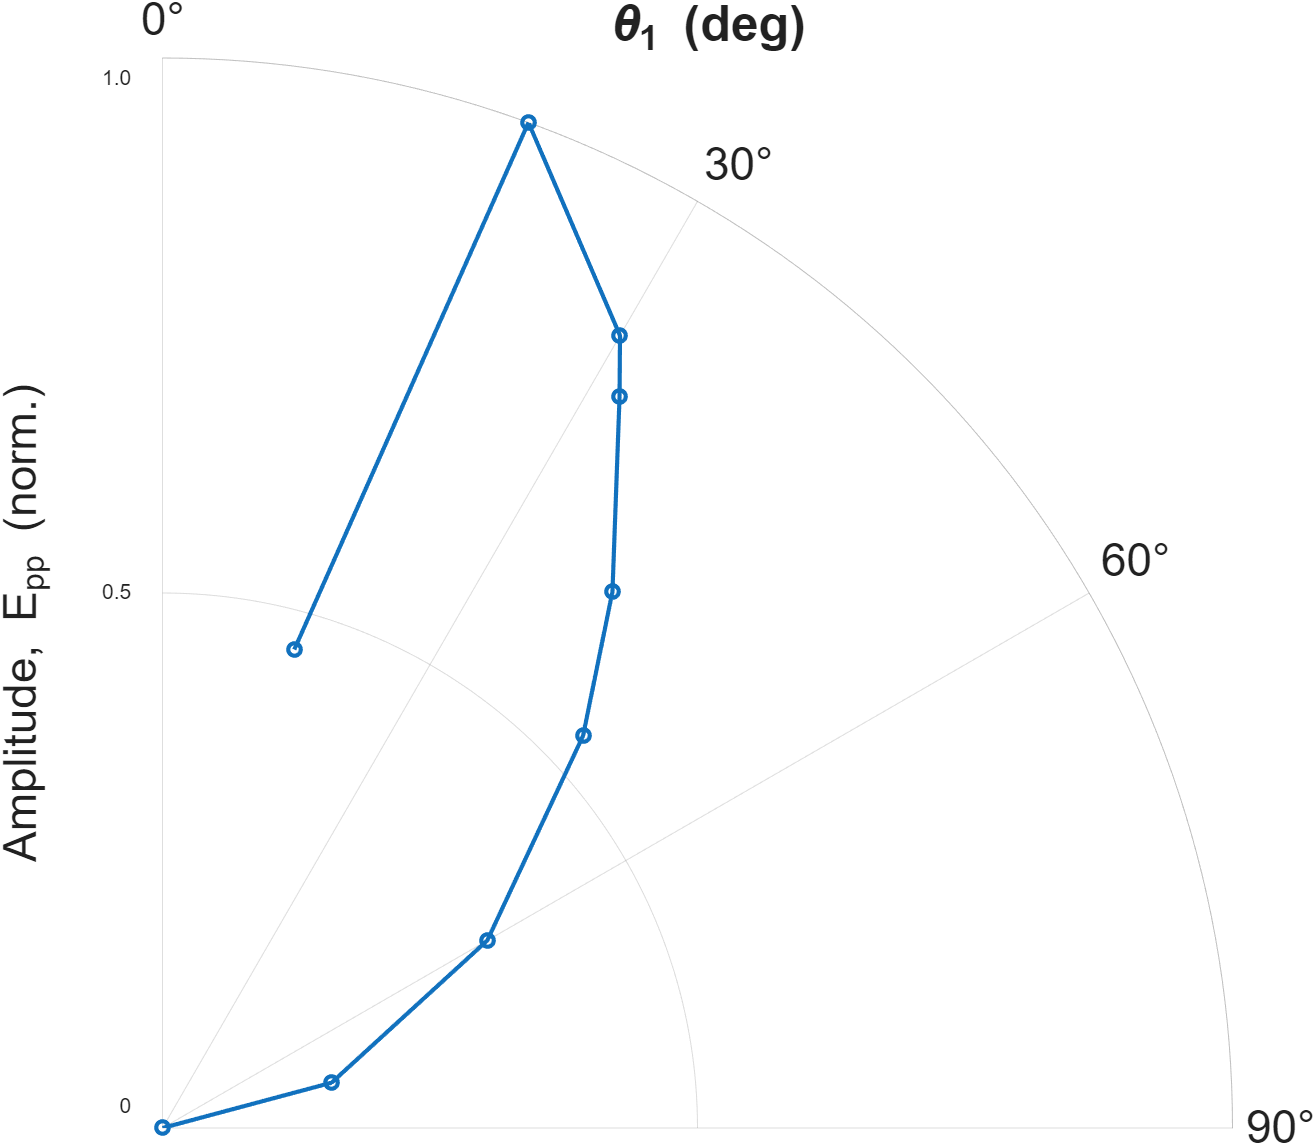
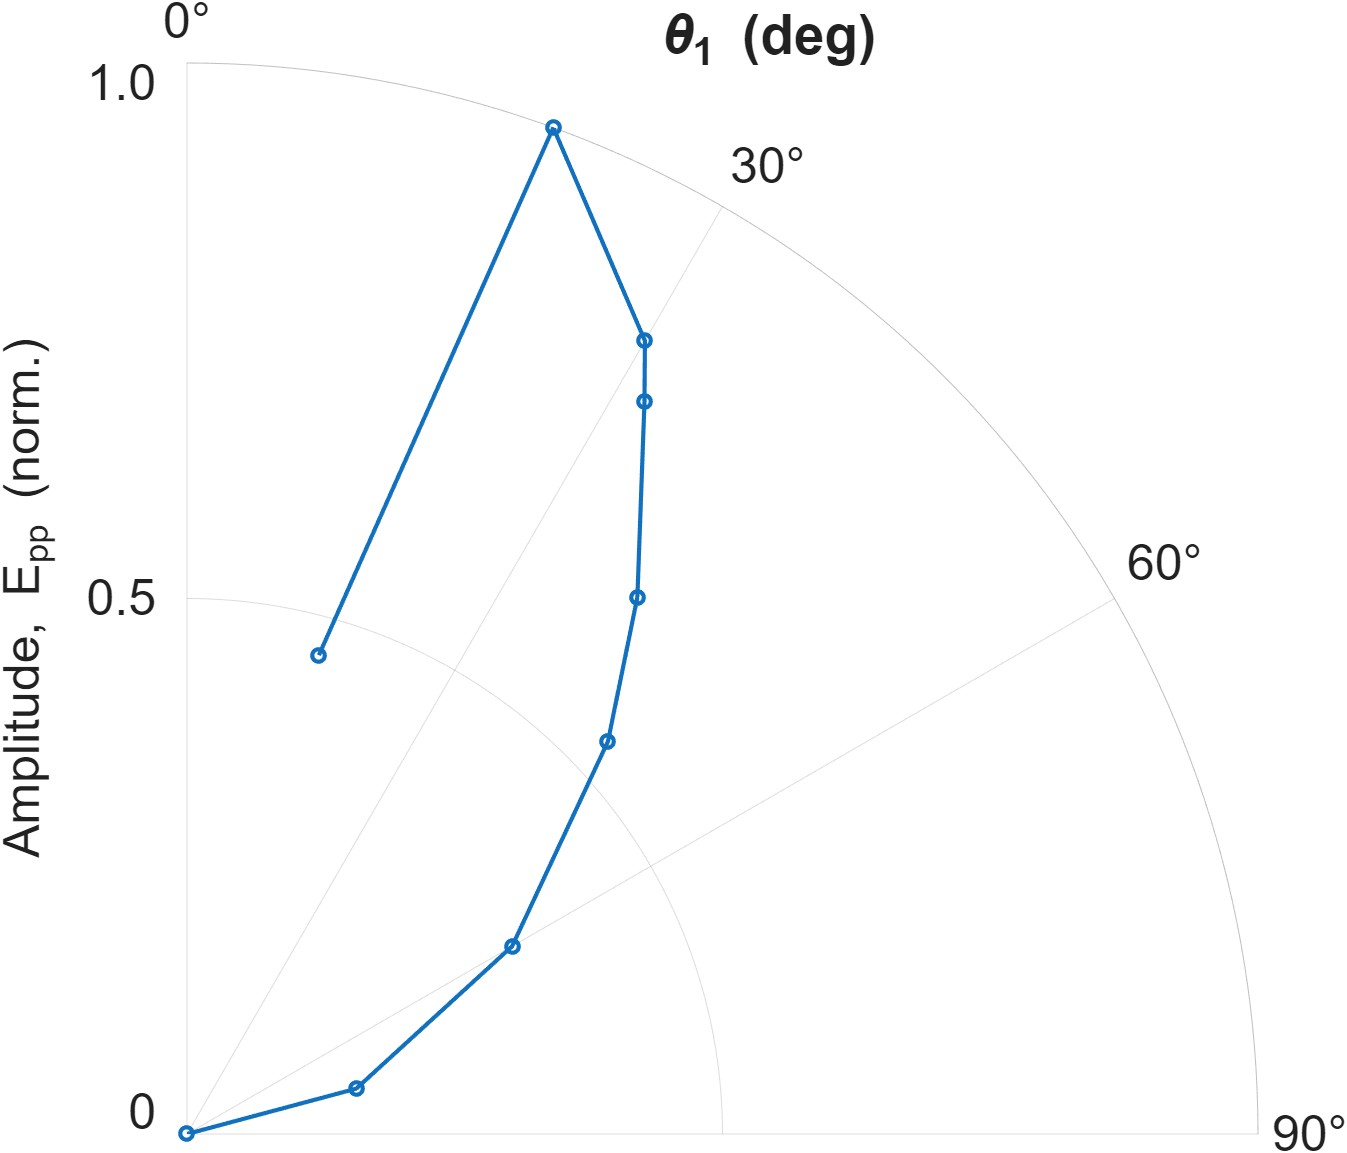
Updates from Overleaf

diff --git a/interim_report_latex_template (1)/electric_field_draft.tex b/interim_report_latex_template (1)/electric_field_draft.tex
@@ -103,15 +103,15 @@ To verify the correctness of the numerical framework, the simulation was benchma
 To reproduce this result, the simulation was configured with material parameters matching the Fe:InGaAs sample and the excitation geometry described in~\cite{Mueckstein2015}. The carrier transport was solved using the diffusion-recombination model (Equation~\ref{eq:diffusion}), and the far-field electric field was computed at observation angles $\theta_1 = 15.4^{\circ}$, $20^{\circ}$, $30^{\circ}$, $32^{\circ}$, $40^{\circ}$, $47^{\circ}$, $60^{\circ}$, $75^{\circ}$, and $90^{\circ}$ using the retarded potential framework (Equation~\ref{eq:discrete}). At each angle, the peak-to-peak amplitude of the simulated THz waveform was extracted and normalised to the maximum value.
 
 % TODO: Insert figure here showing the comparison polar plot
-% \begin{figure}[h]
-% 	\begin{center}
-% 	\includegraphics[width=9cm]{figure/yaoqi_verification.png}
-% 	\caption{
-% 		Normalised angular emission pattern $E_{\mathrm{pp}}(\theta_1)$ from the simulation (blue circles), compared with the experimental data from Fig.~8(b) of Mueckstein et al.~\cite{Mueckstein2015} (dashed line). The polar plot shows the peak-to-peak THz field amplitude as a function of emission angle above the semiconductor surface.
-% 	}
-% 	\label{fig:verification}
-% 	\end{center}
-% \end{figure}
+ \begin{figure}[h]
+ 	\begin{center}
+ 	\includegraphics[width=9cm]{interim_report_latex_template (1)/figure/yaoqqi/angle.png}
+ 	\caption{
+ 		Normalised angular emission pattern $E_{\mathrm{pp}}(\theta_1)$ from the simulation (blue circles), compared with the experimental data from Fig.~8(b) of Mueckstein et al.~\cite{Mueckstein2015} (dashed line). The polar plot shows the peak-to-peak THz field amplitude as a function of emission angle above the semiconductor surface.
+ 	}
+ 	\label{fig:verification}
+ 	\end{center}
+ \end{figure}
 
 The simulated emission pattern shows good agreement with the published experimental data. The key features are faithfully reproduced: the amplitude peaks near $\theta_1 \approx 20^{\circ}$, decreases monotonically at larger angles, and falls to zero at $\theta_1 = 90^{\circ}$. The null at $\theta_1 = 0^{\circ}$ is an intrinsic consequence of the radial symmetry of the in-plane current distribution and the transverse nature of electromagnetic radiation. This agreement validates both the carrier transport model and the far-field radiation computation, confirming that the numerical implementation of the retarded potential framework correctly captures the angular radiation characteristics of photo-excited semiconductor surfaces. Notably, this verification also supports the conclusion of Mueckstein et al. that the in-plane photo-currents—rather than the normal-direction surface field current—dominate the THz emission process for narrow-bandgap semiconductors such as InGaAs and InAs~\cite{Mueckstein2015}.
 
